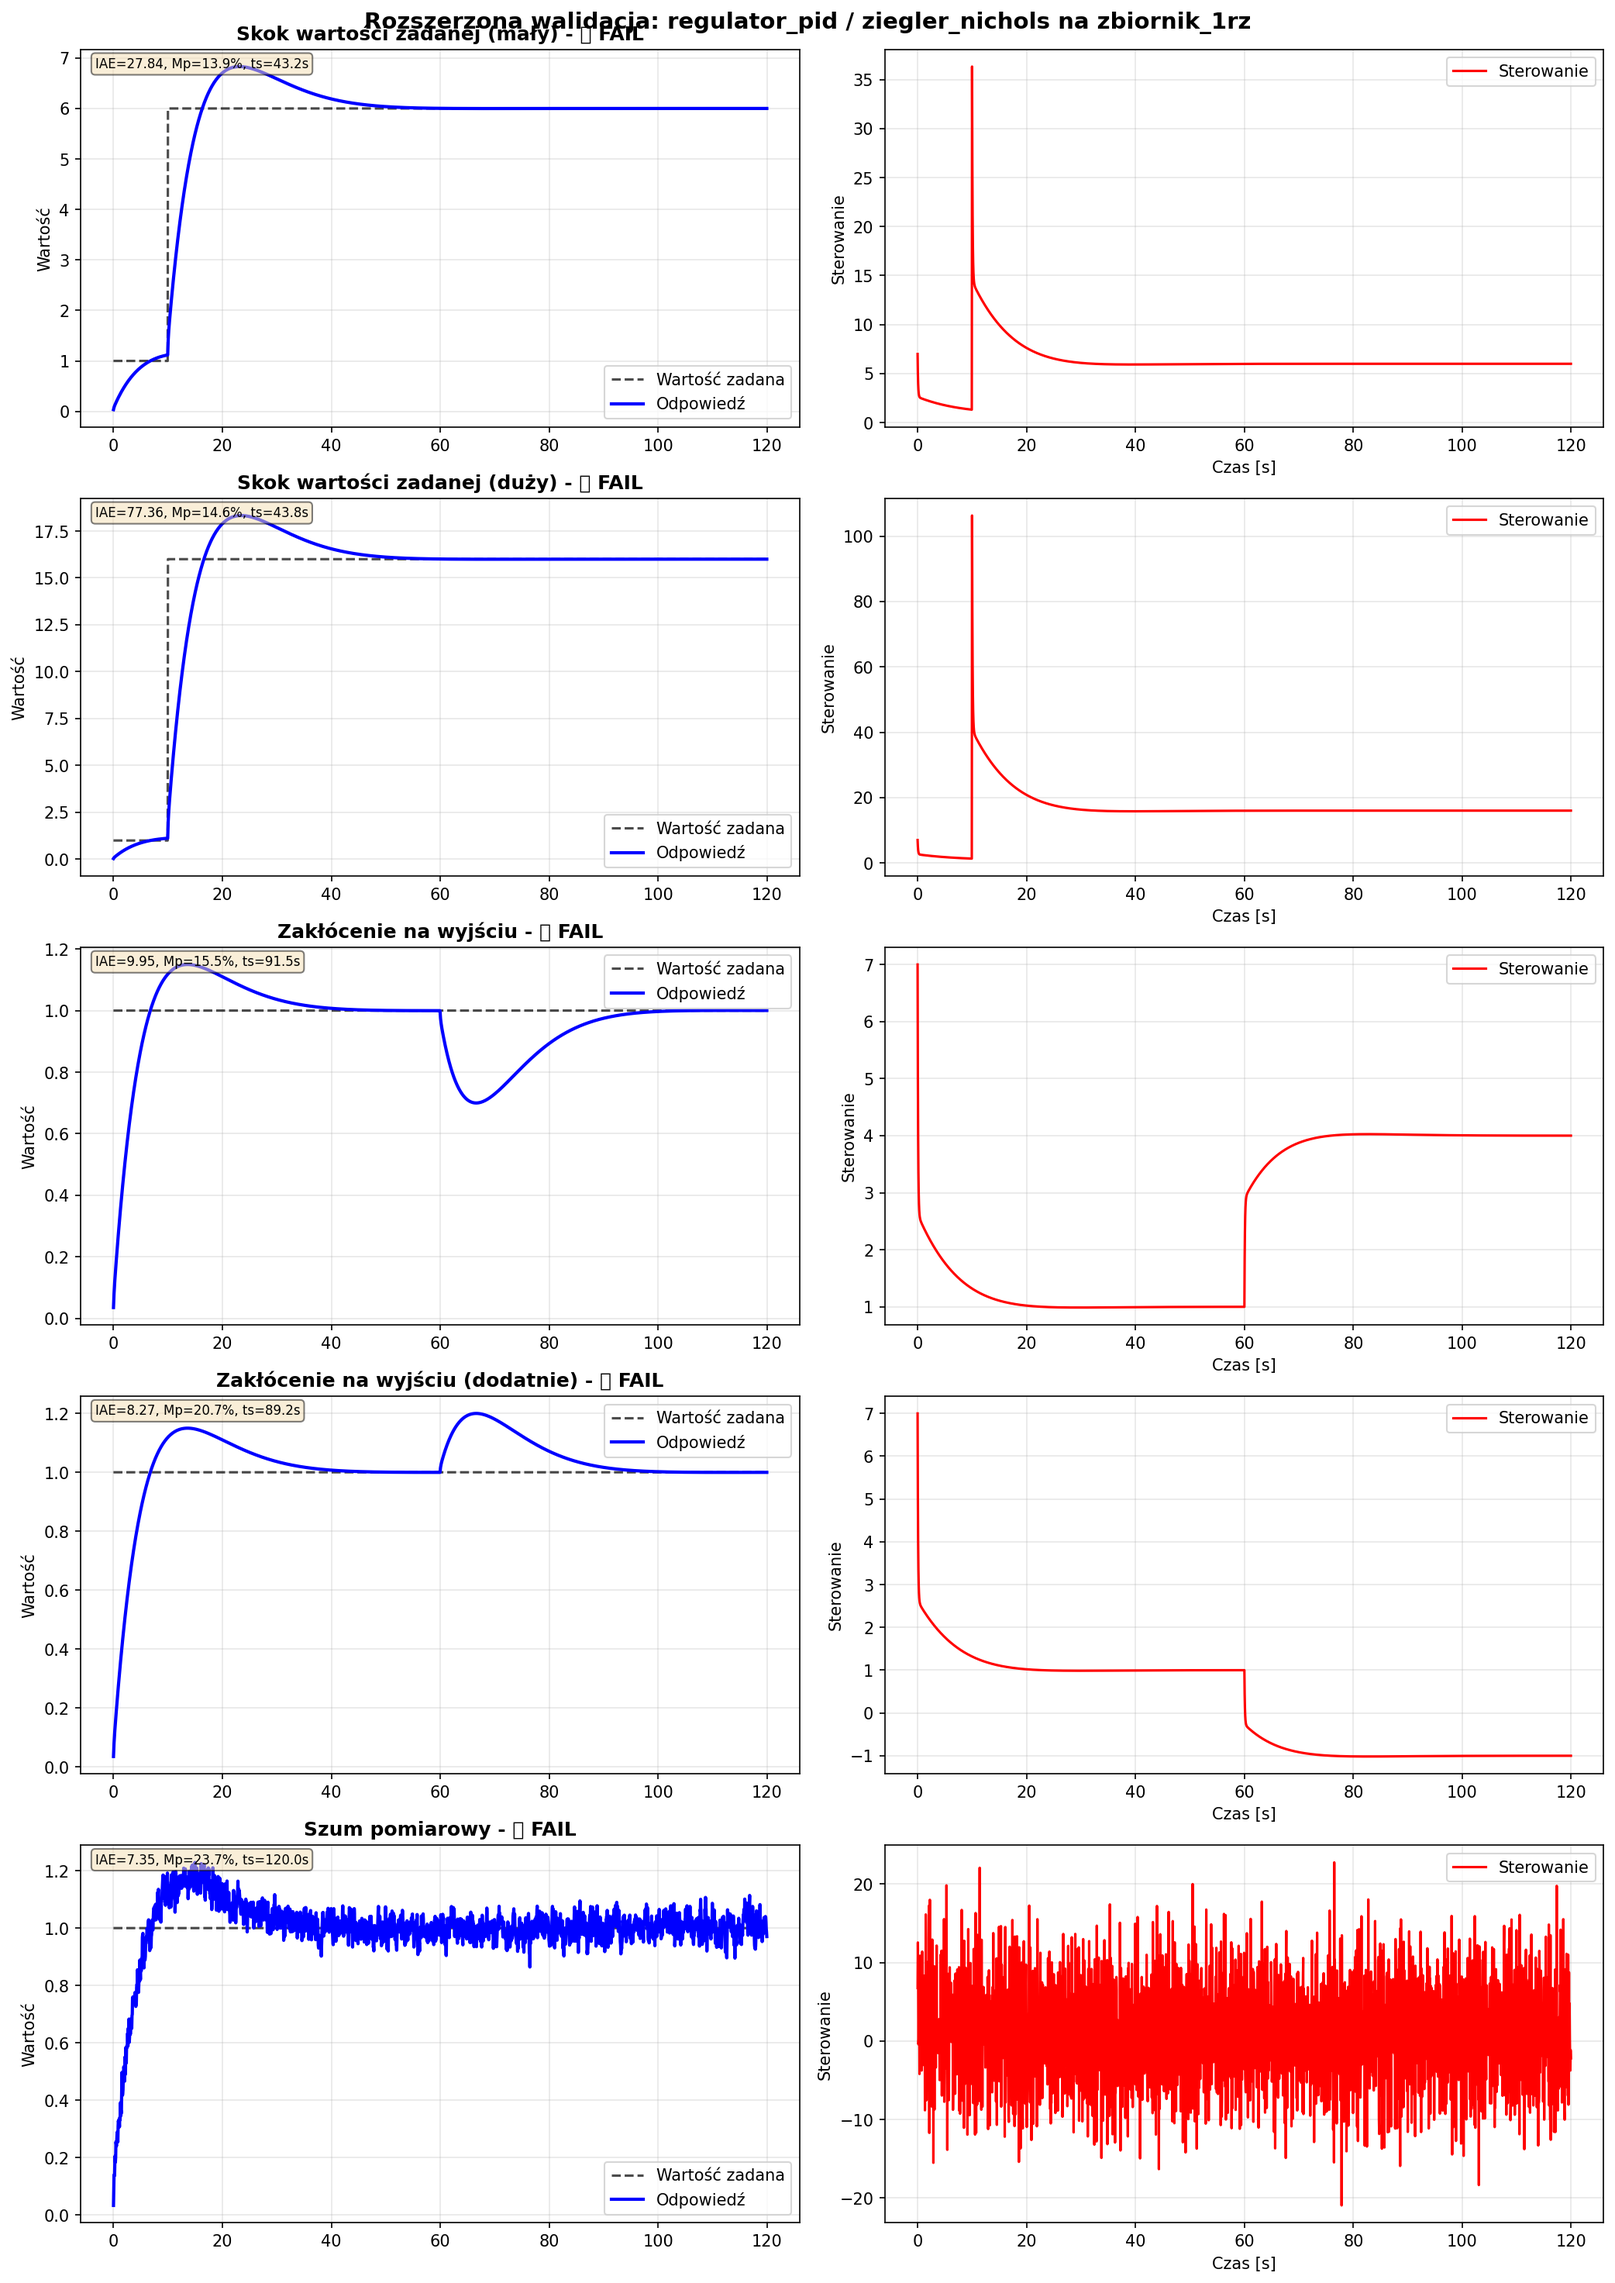
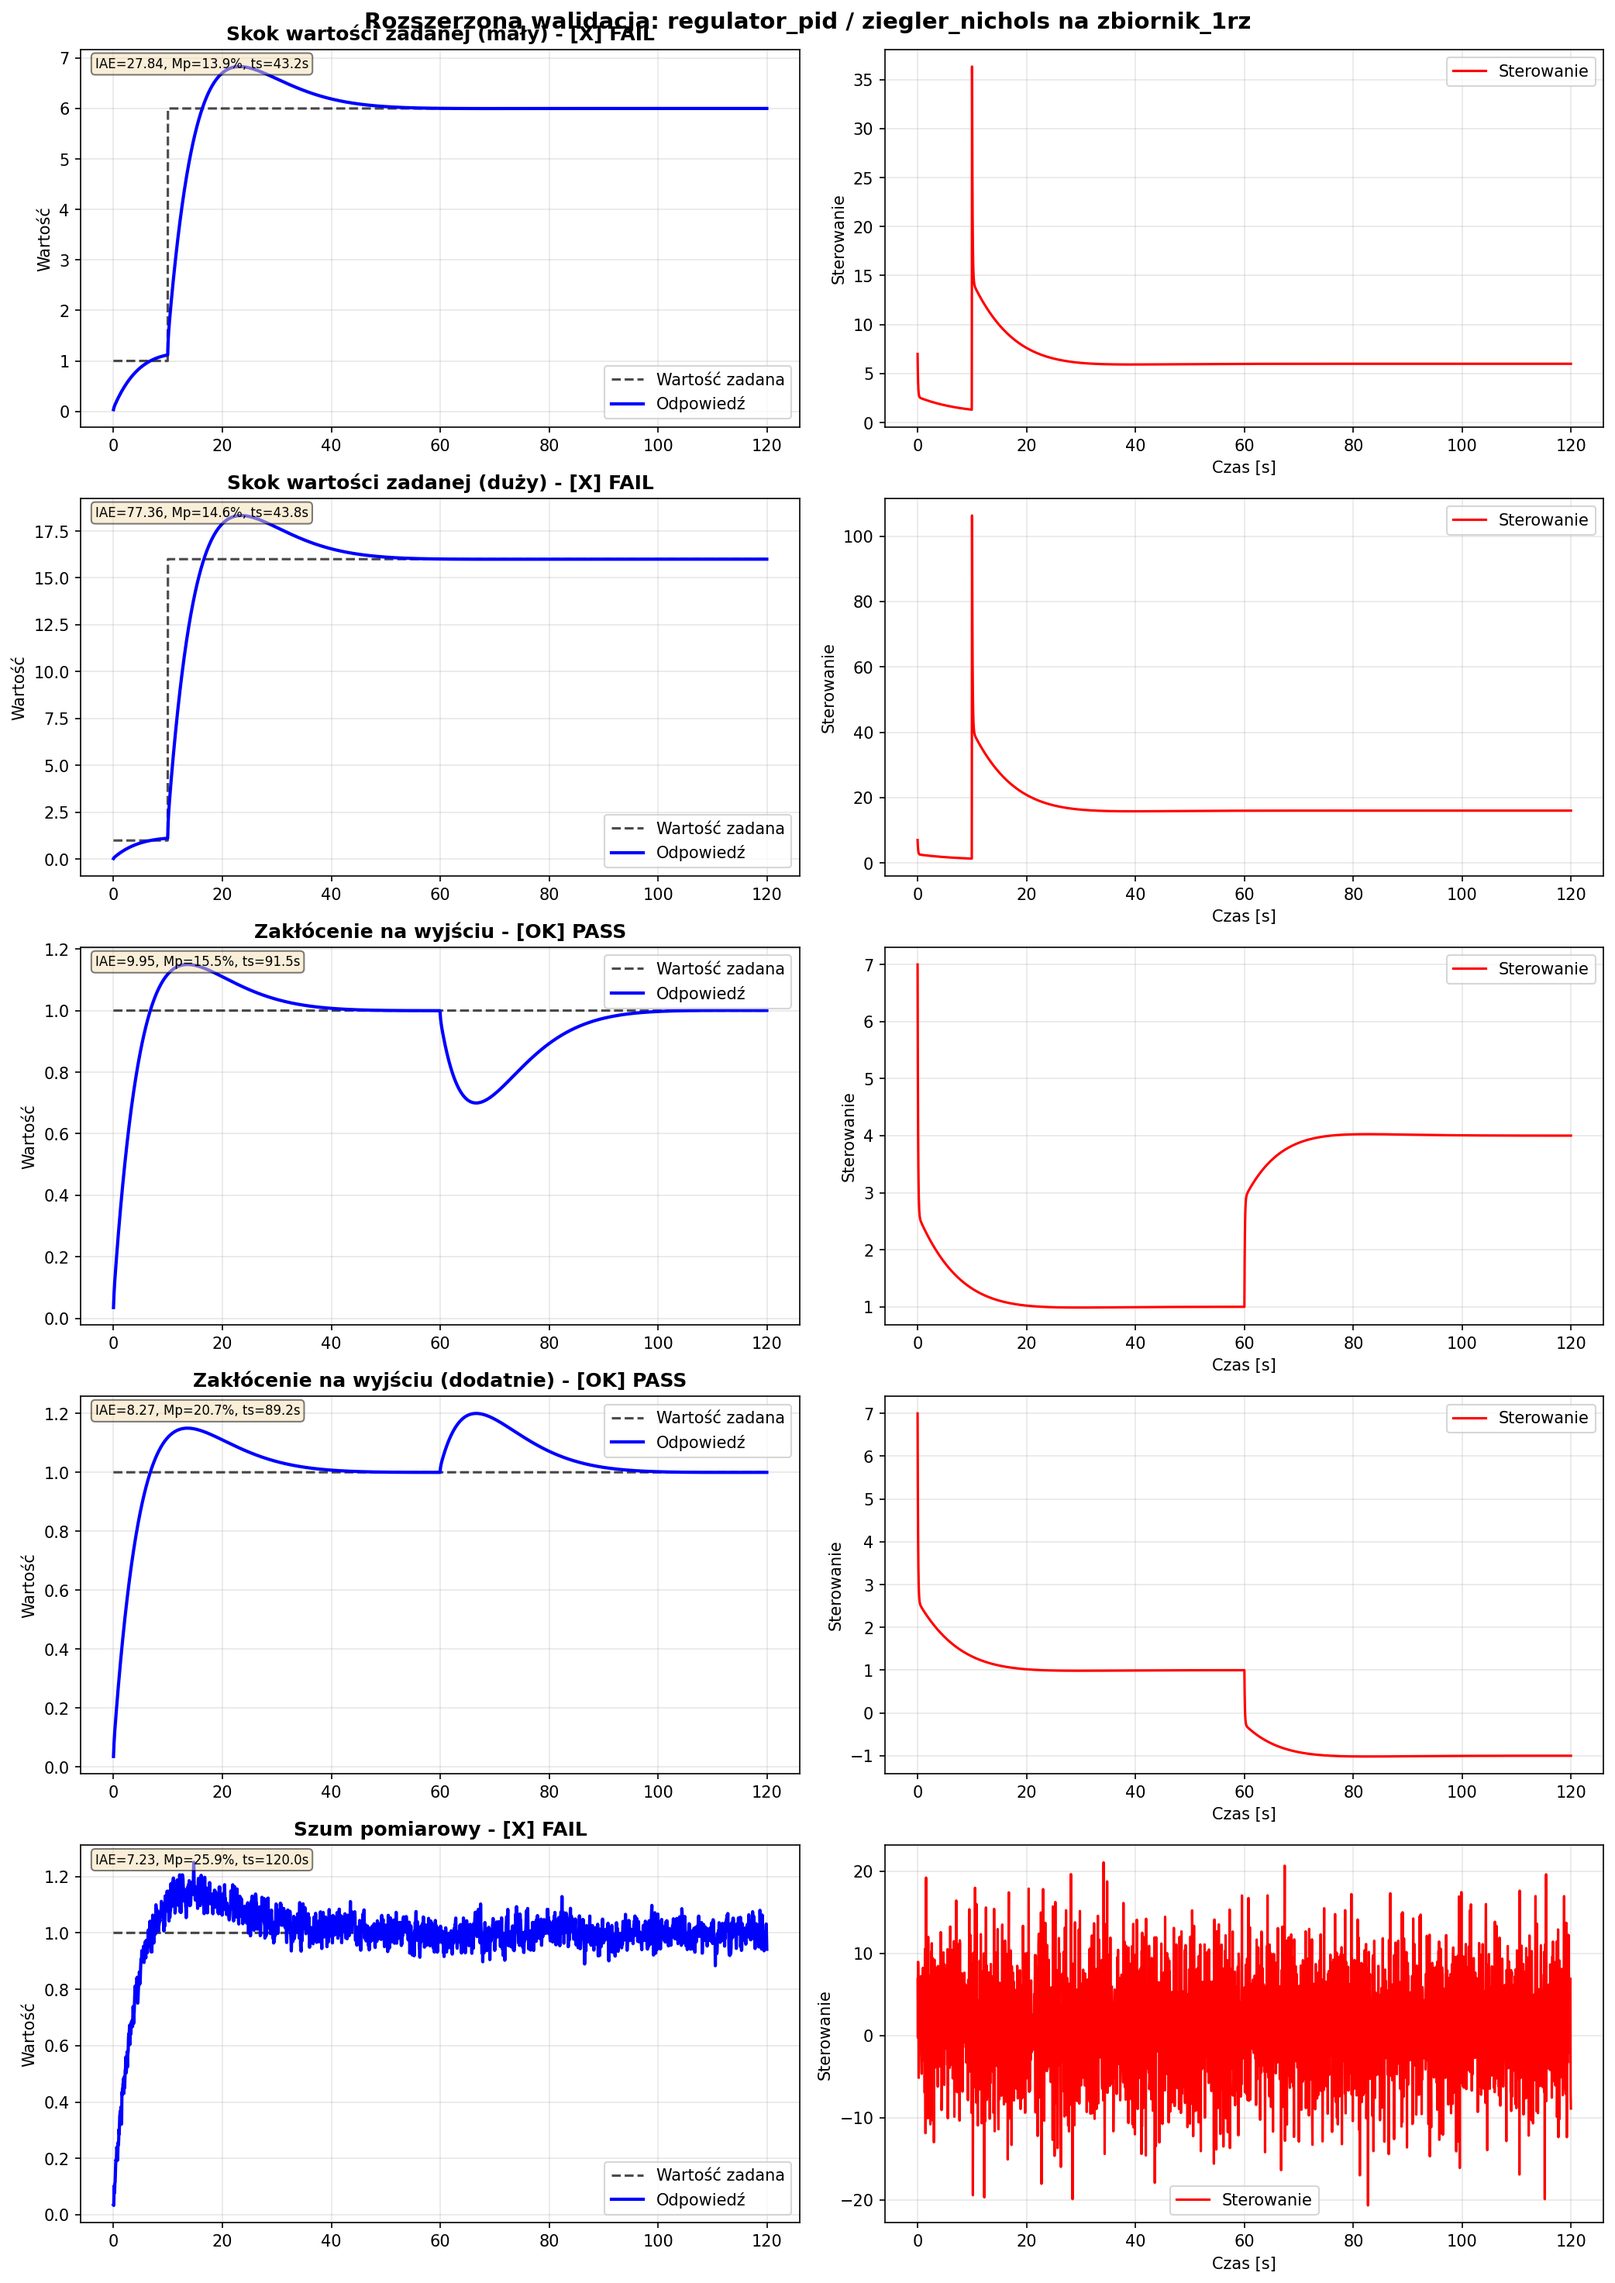
FIX: Zmiana progu PASS w raporcie na 60% oraz aktualizacja daty generowania raportu

diff --git a/wyniki/raport_porownawczy_regulator_pid_zbiornik_1rz.html b/wyniki/raport_porownawczy_regulator_pid_zbiornik_1rz.html
@@ -18,13 +18,13 @@
     </style>
     
 </head><body><div class='container'>
-<h1>📊 Raport Porównawczy Metod Strojenia</h1>
+<h1>[ANALIZA] Raport Porównawczy Metod Strojenia</h1>
 <div class='info-box'>
 <strong>Regulator:</strong> regulator_pid<br>
 <strong>Model:</strong> zbiornik_1rz<br>
-<strong>Data wygenerowania:</strong> 2025-11-04 21:16:38
+<strong>Data wygenerowania:</strong> 2025-11-25 20:06:41
 </div>
-<h2>🔧 Porównanie Parametrów</h2>
+<h2> Porównanie Parametrów</h2>
 <table>
 <tr><th>Metoda</th><th>Kp</th><th>Ti</th><th>Td</th></tr>
 <tr>
@@ -46,7 +46,7 @@
 <td>0.1</td>
 </tr>
 </table>
-<h2>📈 Porównanie Metryk Jakości</h2>
+<h2>[WYKRESY] Porównanie Metryk Jakości</h2>
 <table>
 <tr><th>Metoda</th><th>IAE</th><th>ISE</th><th>ITAE</th><th>Przeregulowanie [%]</th><th>Czas ustalania [s]</th><th>Czas narastania [s]</th></tr>
 <tr>
@@ -78,11 +78,11 @@
 </tr>
 </table>
 <div class='info-box'>
-💡 <strong>Najlepsze wartości</strong> dla każdej metryki są podświetlone na zielono.
+ <strong>Najlepsze wartości</strong> dla każdej metryki są podświetlone na zielono.
 </div>
 <h2>📉 Wykresy Porównawcze</h2>
 <img src='porownanie_regulator_pid_zbiornik_1rz.png' alt='Wykresy porównawcze'>
-<h2>📝 Wnioski</h2>
+<h2> Wnioski</h2>
 <div class='info-box'>
 <strong>Najlepsza metoda (wg IAE):</strong> Przeszukiwanie siatki<br>
 <strong>IAE:</strong> 0.7015<br>

diff --git a/src/raport_koncowy.py b/src/raport_koncowy.py
@@ -98,7 +98,7 @@ class GeneratorRaportuKoncowego:
                         "ITAE": None,  # Brak w raportach rozszerzonych
                         "Mp": mp_mean,
                         "ts": ts_mean,
-                        "PASS": procent_pass >= 80,  # Pass jeśli >= 80% scenariuszy zaliczonych
+                        "PASS": procent_pass >= 60,  # Pass jeśli >= 60% scenariuszy zaliczonych
                         "czas_obliczen": None,  # Brak w raportach rozszerzonych
                         "typ_walidacji": "rozszerzona",
                         "plik": plik.name
